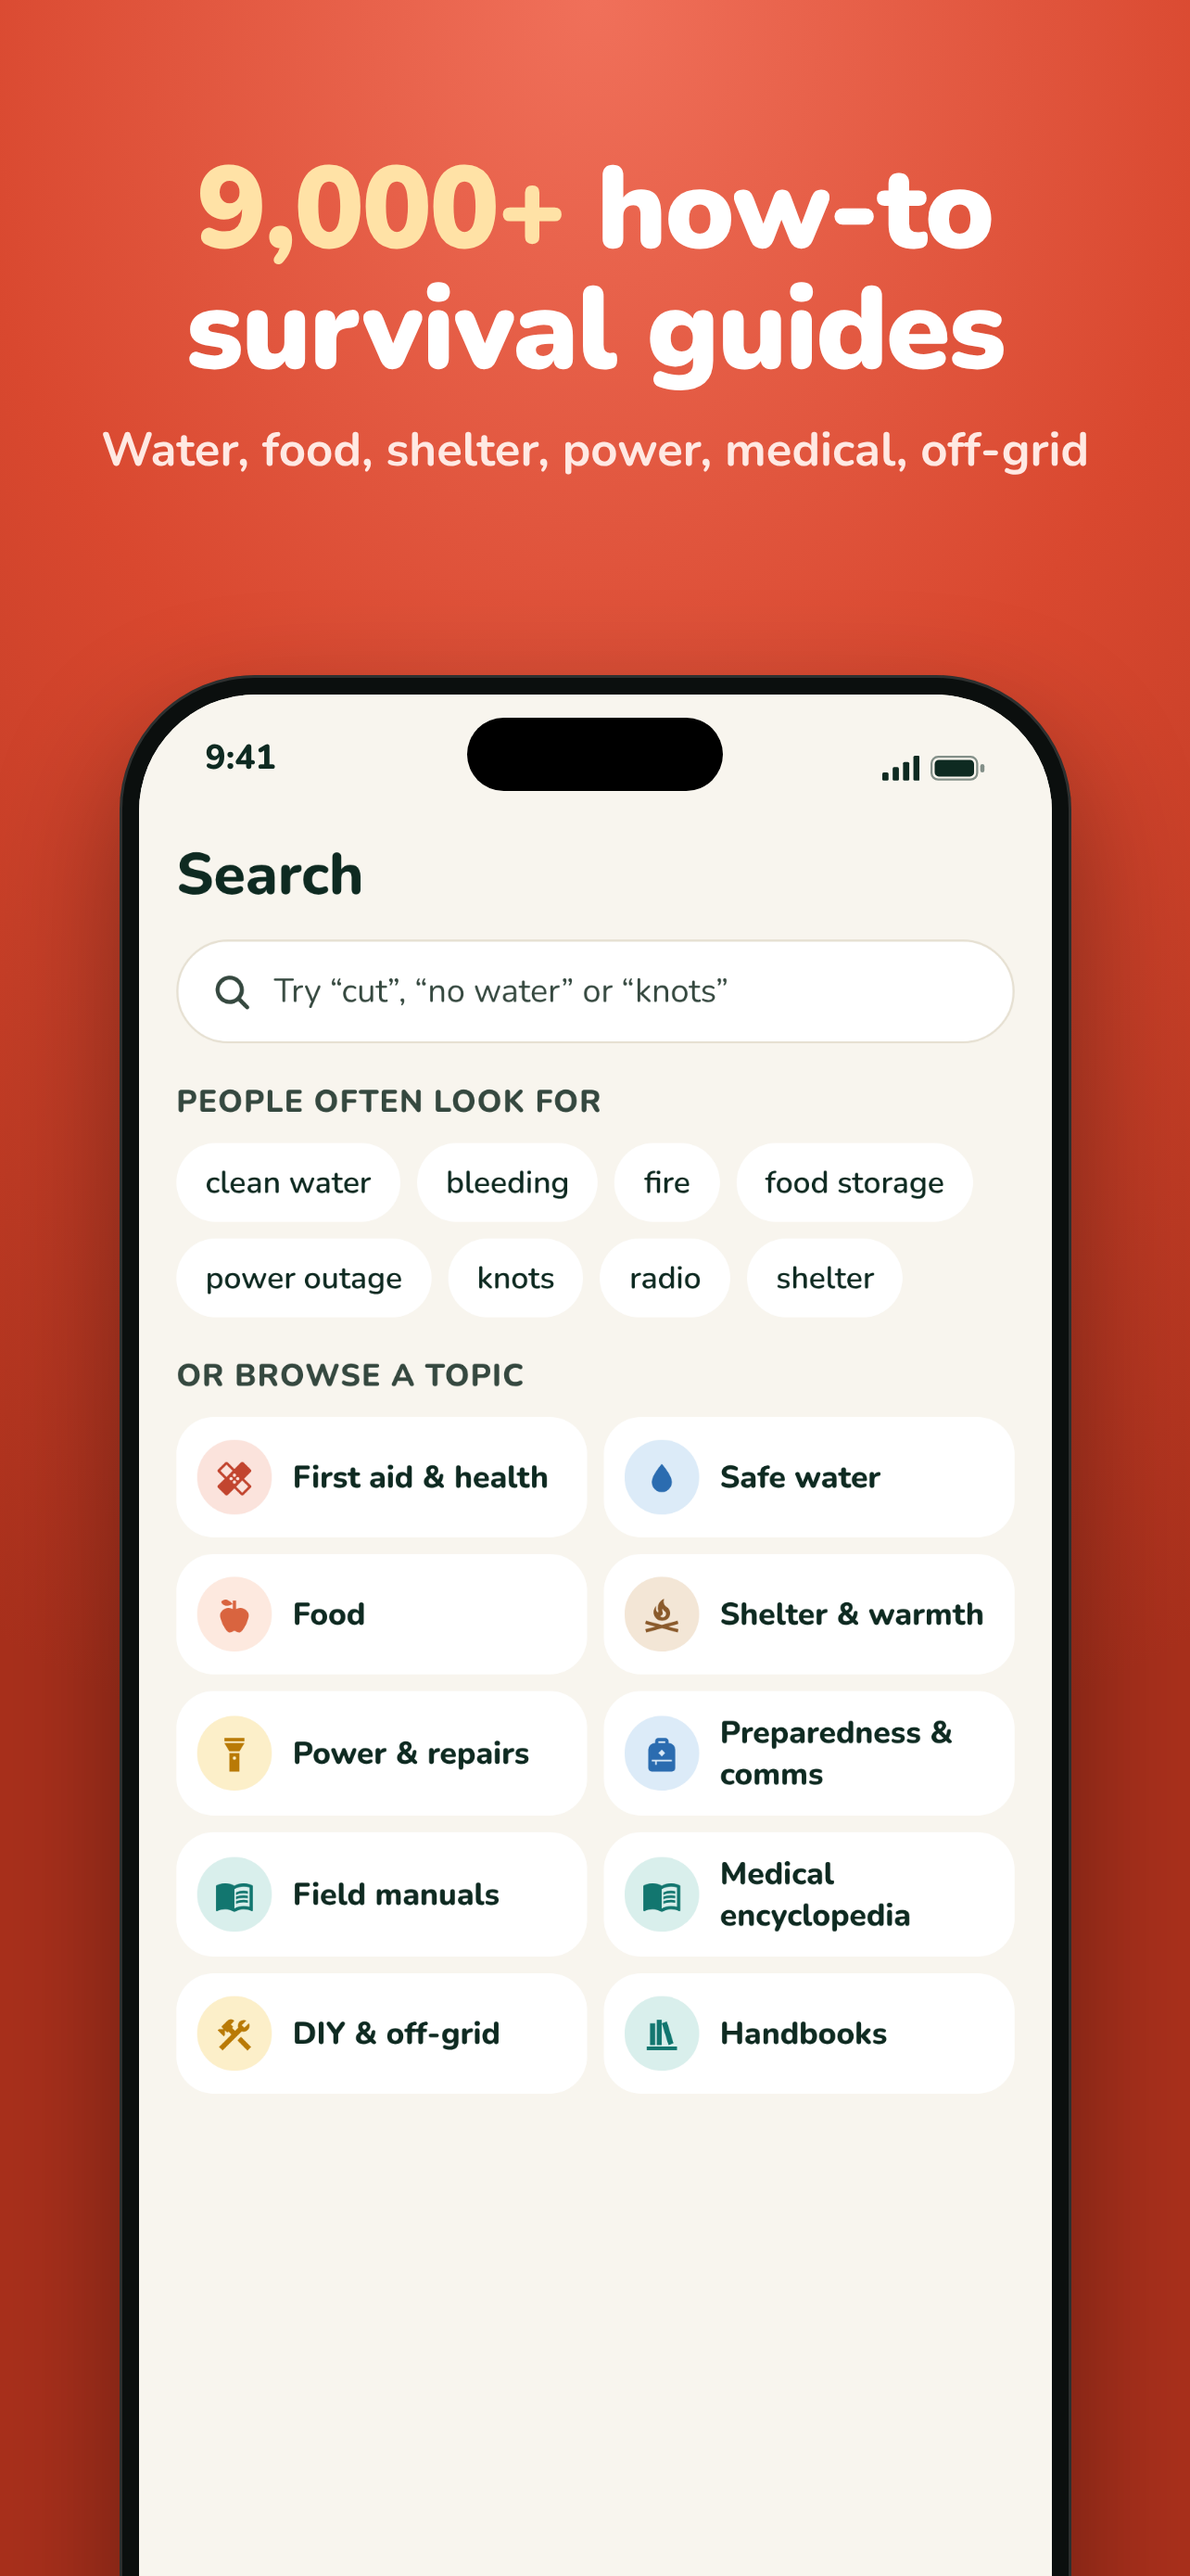
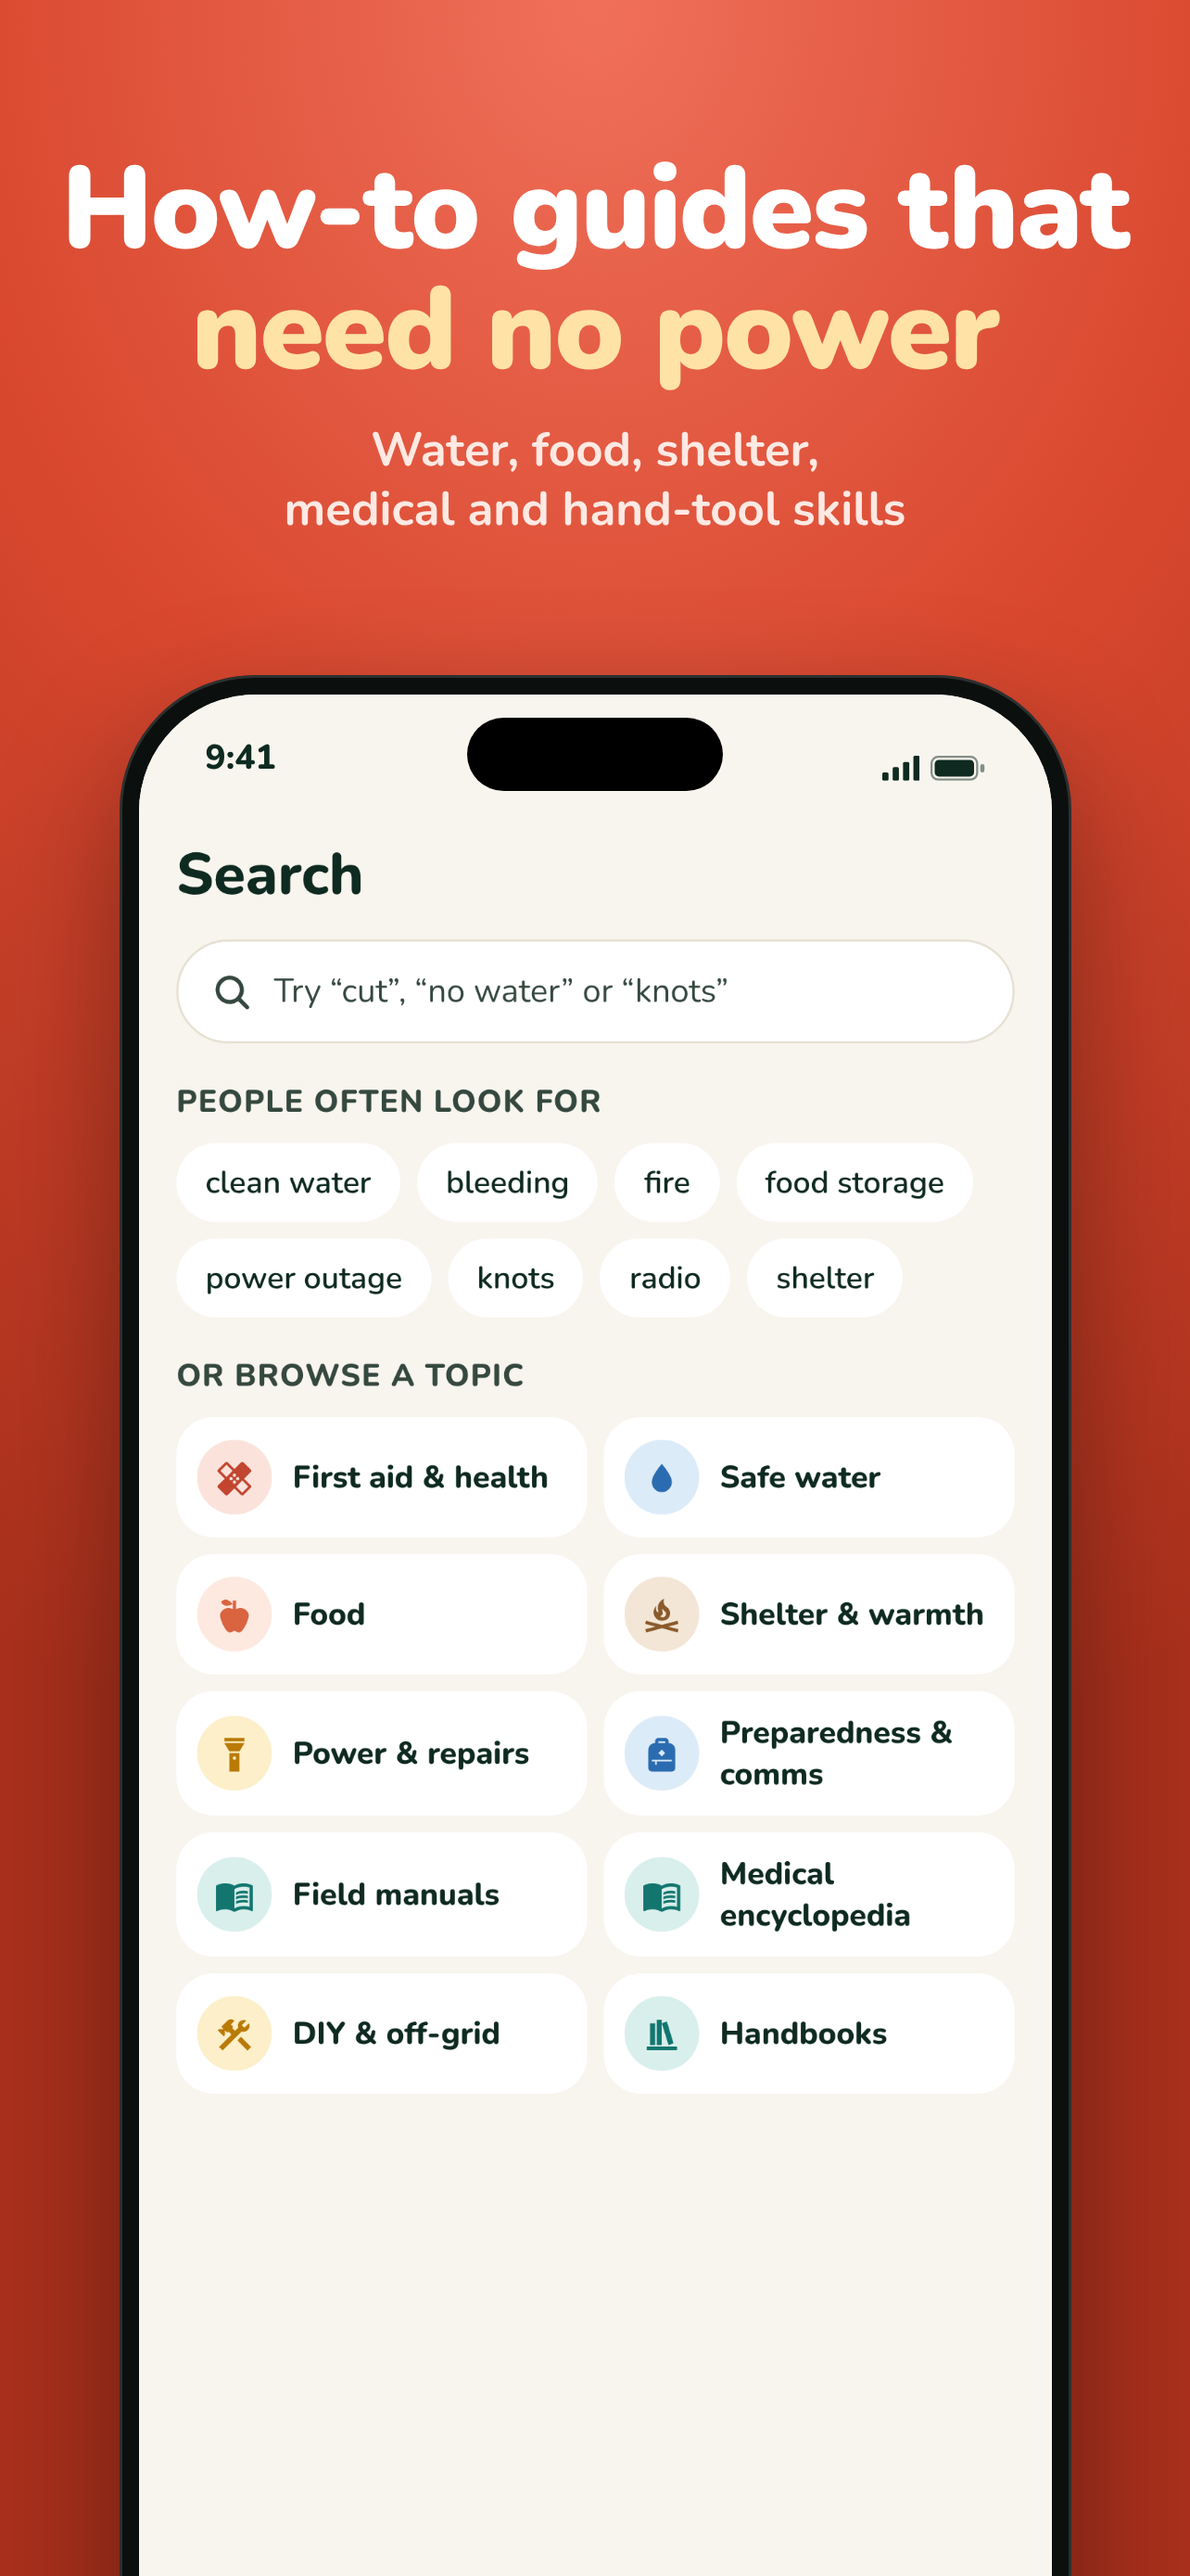
Packs: only keep guides usable with no power, internet or special equipment
Bulk pages now have to pass an off-grid check: no 3D printing, electronics,
software, lab kit, studies or school projects. Electronics and clinical
Emergency Medicine books are dropped; cookbook and gardening pages are limited
to staples, preserving and growing food.

Claude-Session: https://claude.ai/code/session_01DYowqY7dXHKPgDuNGQq2tV

Changed region(s): [[0.0312, 0.0619, 0.9657, 0.2167]]

diff --git a/store/make-screenshots.js b/store/make-screenshots.js
@@ -14,7 +14,7 @@ const S = [
   ['hazard', 'sun', 'Ready for <b>your</b><br>disasters', 'Hurricanes, tornadoes, quakes, floods, wildfire', 'light'],
   ['checklist', 'cream', 'Prep for 3 days,<br><b>2 weeks or 1 year</b>', 'Prepper checklists sized for your household', 'light'],
   ['ask', 'dark', 'Ask anything.<br><b>Works offline.</b>', 'Instant answers from your saved guides', 'light'],
-  ['search', 'coral', '<b>9,000+</b> how-to<br>survival guides', 'Water, food, shelter, power, medical, off-grid', 'light'],
+  ['search', 'coral', 'How-to guides that<br><b>need no power</b>', 'Water, food, shelter, medical and hand-tool skills', 'light'],
 ];
 const page = ([shot, th, h, sub, bar], W, H) => { const [bg, hc, ac, sc] = TH[th]; const k = W / 1320; const top = bar === 'dark' ? GREEN : '#F8F5EE', fg = bar === 'dark' ? '#fff' : INK;
   const pw = Math.round(W * 0.8), bez = Math.round(22 * k), sw = pw - bez * 2, sk = sw / 1320, sbH = Math.round(150 * sk);

diff --git a/src/app/welcome.tsx b/src/app/welcome.tsx
@@ -32,7 +32,7 @@ const SLIDES = [
   {
     image: require('../../assets/illustrations/packs.png'),
     title: 'Start free, add more later',
-    body: 'The Small pack is free forever and covers the essentials. Want field manuals, handbooks and thousands more guides? Unlock the bigger packs any time.',
+    body: 'The Small pack is free forever and covers the essentials. Want field manuals, handbooks and many more guides? Unlock the bigger packs any time.',
   },
 ];
 

diff --git a/store/listing.md b/store/listing.md
@@ -21,13 +21,13 @@ Words already in the name and subtitle (survival, guide, prepper, offline, how-t
 
 ## Promotional text (170 max)
 
-No power. No signal. No problem. Step-by-step survival help, first aid you can follow out loud, and thousands of how-to guides, all saved on your phone.
+No power. No signal. No problem. Step-by-step survival help, first aid you can follow out loud, and a full library of how-to guides, all saved on your phone.
 
 ## Description
 
 When the power is out and the phone lines are down, Last App still works.
 
-Last App is a complete offline survival guide. Download it once and everything is saved on your phone: emergency first aid, disaster plans, prepper checklists and thousands of how-to guides. No internet, no signal and no account needed.
+Last App is a complete offline survival guide. Download it once and everything is saved on your phone: emergency first aid, disaster plans, prepper checklists and a full library of how-to guides. No internet, no signal and no account needed.
 
 KNOW WHAT TO DO IN SECONDS
 - 10 emergency cards with big, plain steps: bleeding, CPR, choking, burns, broken bones, overheating, hypothermia, safe water, lost outdoors and power outages
@@ -45,8 +45,9 @@ PREP LIKE A PRO
 - Water, food and supplies sized for your household
 - A plain reason next to every item, so you know why it matters
 
-THOUSANDS OF HOW-TO GUIDES
-- First aid and health, safe water, food and gardening, shelter and warmth, power and repairs, radios, off-grid living and DIY
+HOW-TO GUIDES THAT NEED NO POWER
+- First aid and health, safe water, food and gardening, shelter and warmth, power and repairs, radios, off-grid living and hand-tool DIY
+- Every guide is picked to work with no electricity, no internet and no special equipment
 - Army and FEMA field manuals
 - Search everything, or just ask a question and get an answer from your guides
 - Find words inside any guide, jump between sections, and make the text bigger
